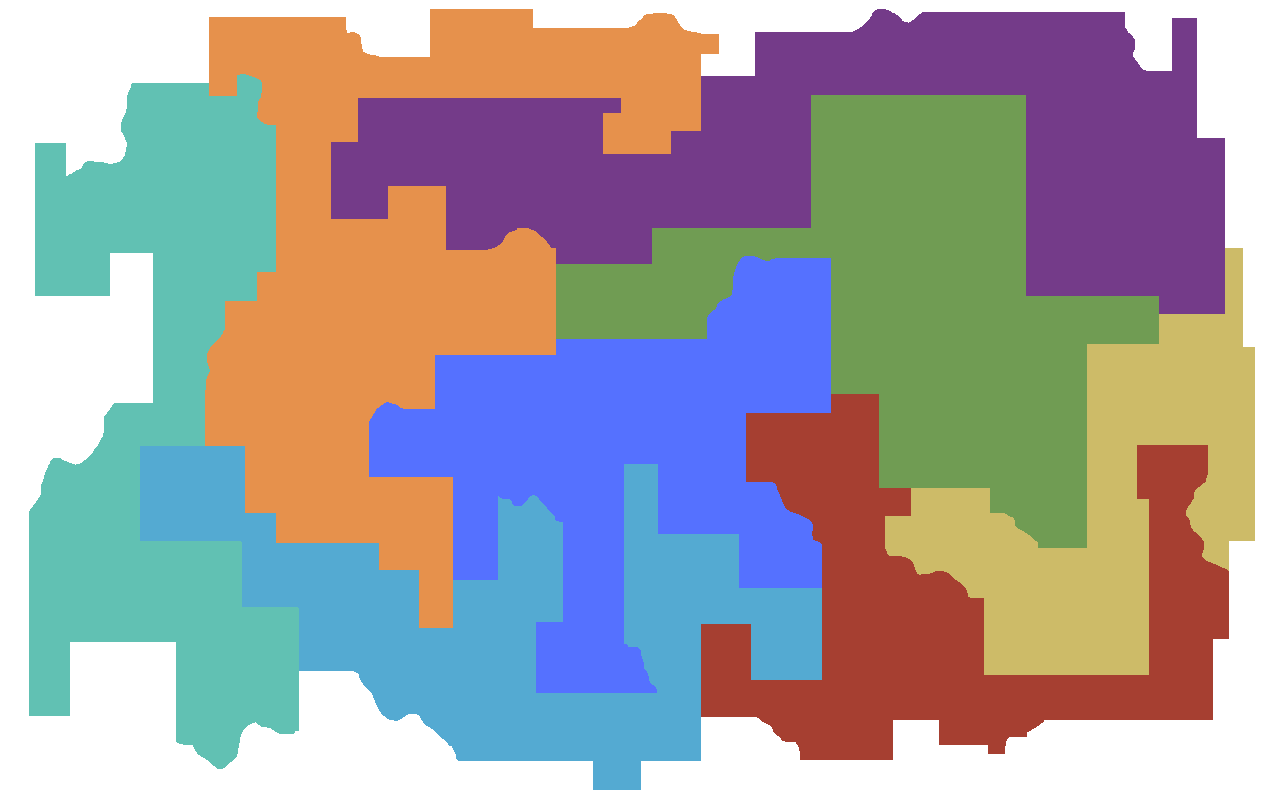
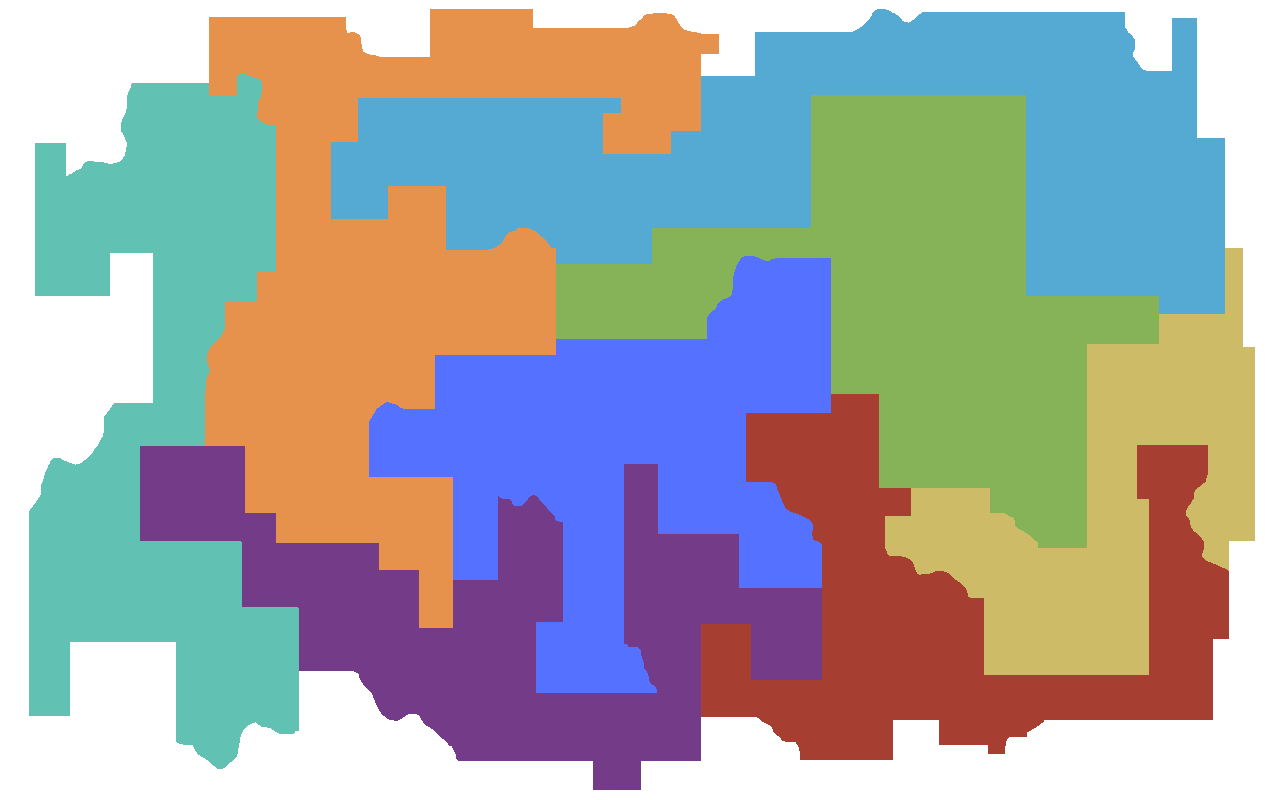
final level select

Changed region(s): [[0.25, 0.0, 0.9688, 0.4062], [0.0938, 0.5312, 0.6562, 1.0]]

diff --git a/web/scripts/Level.dart b/web/scripts/Level.dart
@@ -49,7 +49,7 @@ class Level {
         print("initializing levels");
         levels.clear();
         final List<String> levelNames = <String>["Basketball","Baseball","Soccer","Skateboard","Tennis","Pool","Poker Hand", "Horse"];
-        final List<String> colors = <String>["#61c1b3","#5571ff","#743b89","#ab81ff","#5571ff","#cdbb68","#fec182", "#ffe18f"];
+        final List<String> colors = <String>["#61c1b3","#5571ff","#54aad2","#87b358","#cdbb68","#743b89","#e6914c", "#a63f31"];
 
         int i = 0;
         for(String name in levelNames) {
